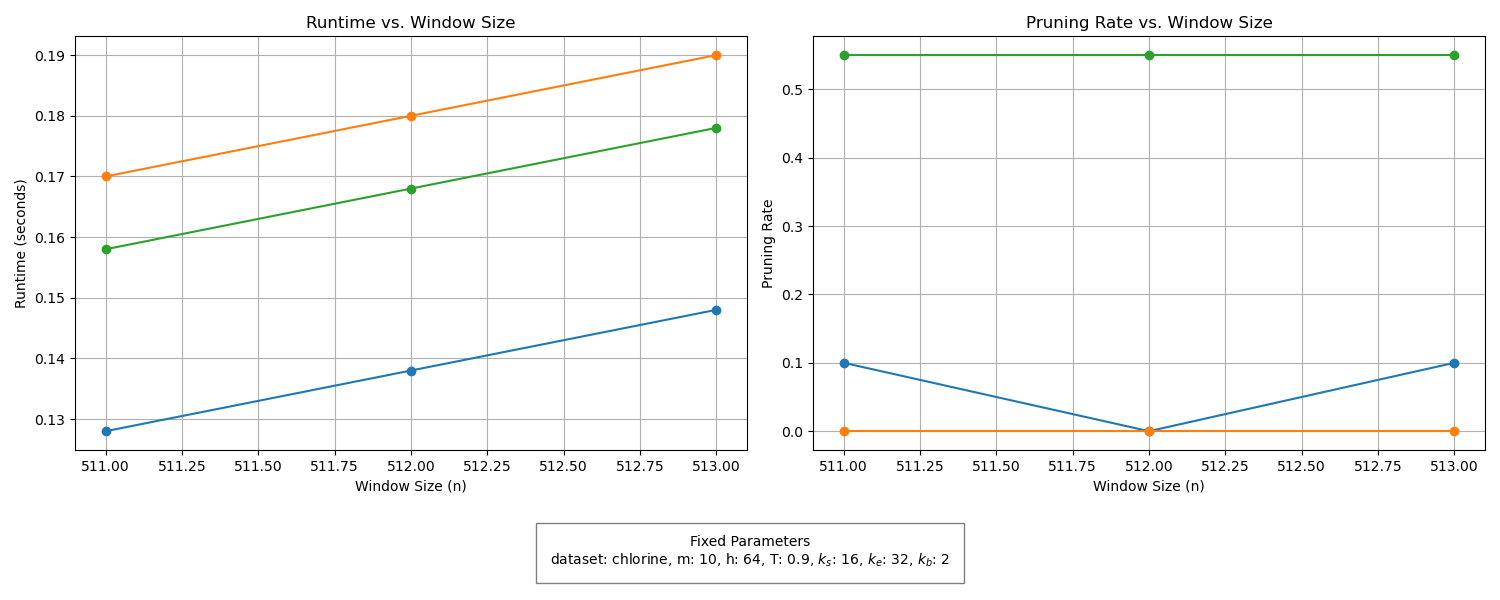
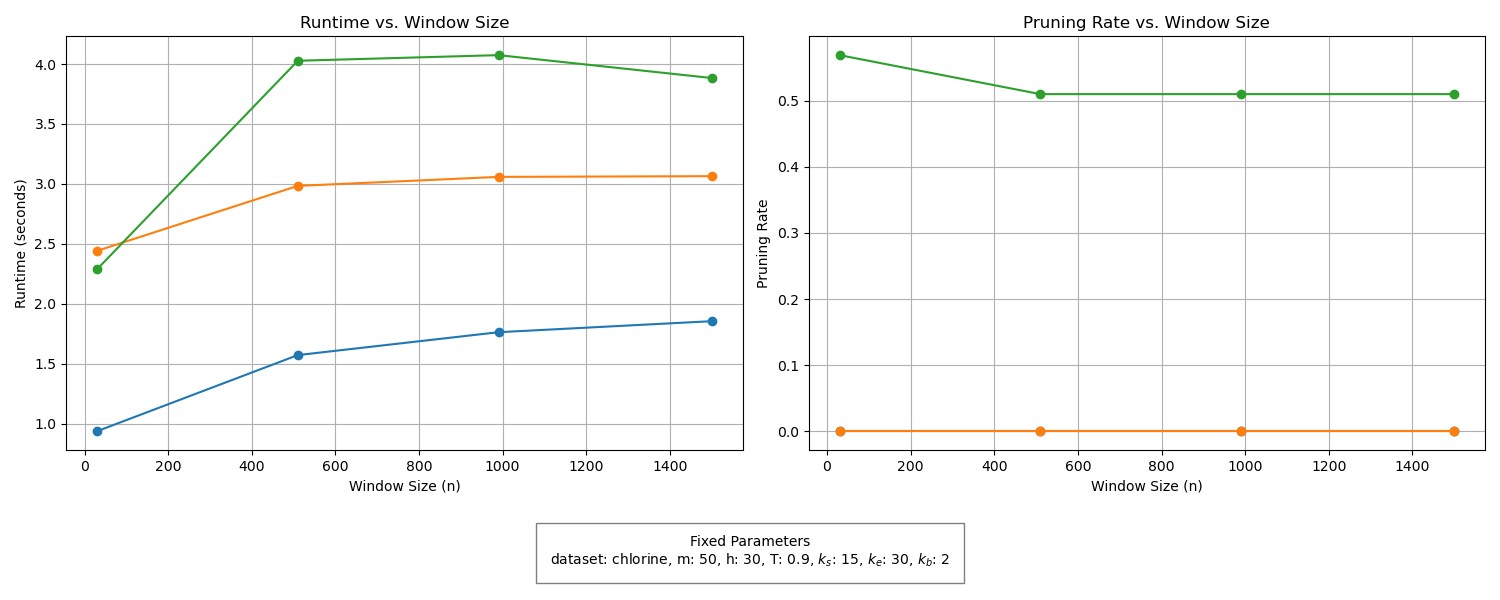
feat: automatic run for runtime vs. n and pr vs. n

diff --git a/code/brute_force_implementation/main.py b/code/brute_force_implementation/main.py
@@ -45,6 +45,17 @@ def gen_t_runtime_pr_data(perf_logger):
     corr_join_wrapper("chlorine", f"chlorine_0_run_{i}", perf_logger, m=50, algorithm_1=brute_force_euc_dist)
 
 
+def gen_n_runtime_pr_data(perf_logger):
+  """
+  Generate performance data for the runtime vs. n and pruning rate vs. n
+  plots.
+  """
+  for i in range(4):
+    corr_join_wrapper("chlorine", f"chlorine_1_run_{i}", perf_logger, m=50)
+    corr_join_wrapper("chlorine", f"chlorine_1_run_{i}", perf_logger, m=50, algorithm_1=brute_force_p_corr)
+    corr_join_wrapper("chlorine", f"chlorine_1_run_{i}", perf_logger, m=50, algorithm_1=brute_force_euc_dist)
+
+
 def gen_perf_data():
   """
   Generate performance data.
@@ -56,7 +67,8 @@ if __name__ == '__main__':
   # Use the same logger for all runs to avoid duplicate entries
   perf_logger = util.create_csv_logger("performance_logger", logging.INFO,
     "performance_log.csv")
-  gen_t_runtime_pr_data(perf_logger)
+  # gen_t_runtime_pr_data(perf_logger)
+  gen_n_runtime_pr_data(perf_logger)
 
   # Run with CorrJoin
   # corr_join_wrapper("audio", "audio_params_1", perf_logger)

diff --git a/code/brute_force_implementation/util.py b/code/brute_force_implementation/util.py
@@ -36,7 +36,13 @@ def get_params(params_name: str):
     "chlorine_0_run_3": (512, 64, 0.915, 16, 32, 2),
     "chlorine_0_run_4": (512, 64, 0.94, 16, 32, 2),
     "chlorine_0_run_5": (512, 64, 0.965, 16, 32, 2),
-    "chlorine_0_run_6": (512, 64, 0.99, 16, 32, 2)
+    "chlorine_0_run_6": (512, 64, 0.99, 16, 32, 2),
+    # Params for runtime vs. T and pruning rate vs. T plots
+    "chlorine_1_plot_0": (-1, 30, 0.9, 15, 30, 2),
+    "chlorine_1_run_0": (30, 30, 0.9, 15, 30, 2),
+    "chlorine_1_run_1": (510, 30, 0.9, 15, 30, 2),
+    "chlorine_1_run_2": (990, 30, 0.9, 15, 30, 2),
+    "chlorine_1_run_3": (1500, 30, 0.9, 15, 30, 2)
   }
   return parameters[params_name]
 

diff --git a/code/brute_force_implementation/plot.py b/code/brute_force_implementation/plot.py
@@ -168,7 +168,7 @@ def main():
   df = pd.read_csv('./code/brute_force_implementation/logs/performance_log.csv')
   t_runtime_pr(df, "chlorine", 50, util.get_params("chlorine_0_plot_0"))
   t_runtime_pr(df, "gas", 10, util.get_params("chlorine_params_1"))
-  n_runtime_pr(df, "chlorine", 10, util.get_params("chlorine_params_1"))
+  n_runtime_pr(df, "chlorine", 50, util.get_params("chlorine_1_plot_0"))
   n_runtime_pr(df, "gas", 10, util.get_params("chlorine_params_1"))
 
 
